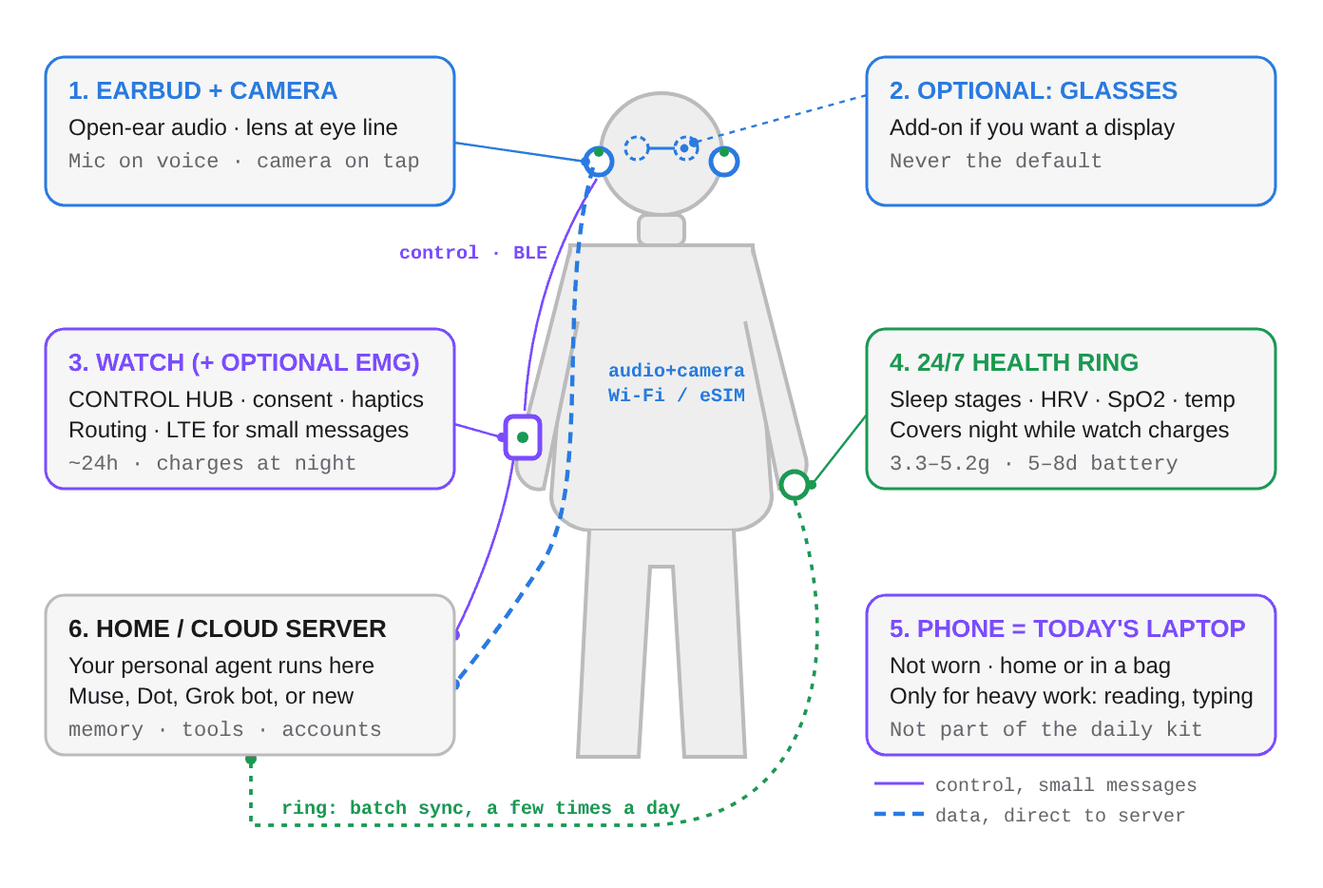
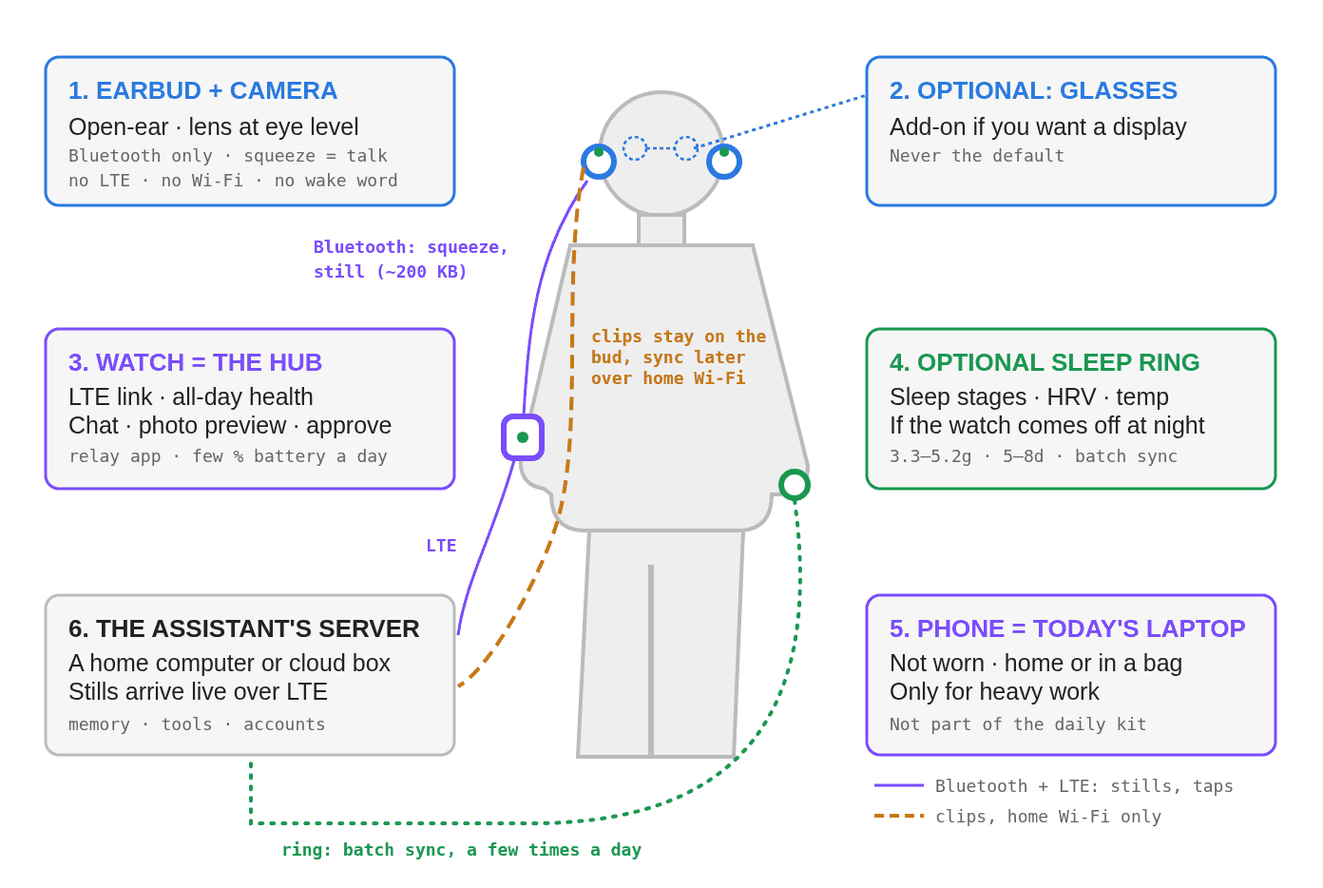
Wearable post: watch-as-hub design (bud Bluetooth only, stills live, clips local), privacy section, the watch is the new phone

diff --git a/_posts/2026-10-21-the-phone-goes-in-the-bag.md b/_posts/2026-10-21-the-phone-goes-in-the-bag.md
@@ -4,148 +4,152 @@ author: krishan
 layout: post
 categories: agents
 title: The phone goes in the bag. A realistic kit for a personal agent you wear.
-description: "An earbud with a small camera, a watch as the control hub, a ring, and an agent running on a server you own. The full design: device roles, links, tiers of compute, battery budget, privacy rules, a simulated day and an honest scorecard."
+description: "An earbud with a small camera, a watch as the hub with the LTE link, an optional ring, and an assistant on a server you own. The full design: device roles, links, tiers of compute, battery budget, privacy, a simulated day and an honest scorecard."
 ---
 
 Laptops did not disappear when phones arrived. They went into the bag, and they come out when there is real work to do: a long document, a spreadsheet, a lot of typing. I think the phone is heading the same way. Most of what we pull it out for is small: what's next, reply to this, log that, play something, how far did I run. A personal agent that can hear you, see what you see when you ask, and talk back in your ear can do most of those without a screen.
 
-This is not a "ten years from now" post. Everything below is built from parts that ship today or are one modest step away. The interesting part is what you have to give up to make it work on a real battery. Below is the whole design: who talks to whom, where the compute lives, the power budget, and what still does not work.
+This is a concept design, not a product, and not a "ten years from now" post. Everything below is built from parts that ship today or are one modest step away. The interesting part is what you have to give up to make it work on a real battery. Below is the whole design: who talks to whom, where the compute lives, the power budget, and what still does not work.
 
 ## The kit
 
 ![An open-ear earbud with a small camera at eye level](/assets/wearable-agent/earbud.jpg)
 
-**An open-ear earbud with a small camera.** This is the main sensor. The ear sits almost exactly at eye line, so a tiny camera there sees roughly what you see. It doesn't change how you look. You don't need a prescription, and it clips to the ear, or to glasses if you already wear them. Open-ear means you still hear the world. It handles voice in and voice out, plus a photo when you ask for one.
+Three devices, one job each.
 
-**Glasses are optional.** Camera glasses work well, but they change your face, and people who need prescription lenses have to customise them. So they are an add-on for people who want a display, not the default.
+**The buds: private voice and an eye-level camera.** An open-ear earbud with a small camera. The ear sits almost exactly at eye line, so a tiny camera there sees roughly what you see, without changing how you look. It has a mic, a speaker and **Bluetooth only**: no LTE, no Wi-Fi, and no always-listening wake word on the ear. A squeeze or tap is the talk/capture button, and it hands the moment to the watch. Open-ear means you still hear the world.
 
-**A watch as the control hub.** Tap to say yes, feel a haptic nudge, glance at one line of text, pay. It has LTE, so it works without the phone nearby.
+**The watch: the hub.** It carries the LTE link to the assistant, the screen (chat, a photo preview, approval taps, notifications) and all-day health tracking. It needs no hardware change. It is just a relay app, costing a few percent of battery a day.
 
-**A ring for health.** Sleep, heart rate and temperature, synced in batches a few times a day. It also covers the night while the watch charges.
+**The ring: optional.** Only worth wearing for more comfortable or more accurate sleep tracking if you take the watch off at night.
 
-**An EMG wristband, optional,** for silent finger gestures instead of voice in a quiet room.
+Also optional: **glasses** for people who want a display (they change your face, so never the default) and an **EMG wristband** for silent finger gestures in a quiet room.
 
-**An agent server you own.** The thinking happens on a home machine or cloud server running your personal agent, the way people already run things like Muse, Dot or a Grok bot, or something new. It holds your memory, tools and accounts. The things you wear are its eyes, ears and hands.
+**An assistant on a server you own.** The thinking happens on a home machine or cloud server running your personal agent, the way people already run things like Muse, Dot or a Grok bot, or something new. It holds your memory, tools and accounts. What you wear is its eyes, ears and hands.
 
 The phone is not part of the daily kit. It stays in a bag, like a laptop, for jobs that need a screen or keyboard.
+
+**The honest trade-off:** the bud is slightly bigger than a plain earbud. The camera, the flash for clips and a larger cell all have to fit.
 
 ![Present with people, agent in the background](/assets/wearable-agent/woman.jpg)
 
 ## The body-area network
 
-![Body silhouette with the wearable constellation: earbud with camera, optional glasses, watch, ring, phone in a bag and an agent server. Thin lines are control, dashed lines are data going straight to the server.](/assets/wearable-agent/body-network.png)
+![Body silhouette with the wearable constellation: earbud with camera, optional glasses, watch hub, optional sleep ring, phone in a bag and the assistant's server. Solid lines are Bluetooth and LTE, the orange dashed line is clips syncing over home Wi-Fi later.](/assets/wearable-agent/body-network.png)
 
-*Figure 1. Thin lines are control and small messages. The dashed blue line is heavy data: the earbud's audio and camera go straight to the server, not through the watch. The ring batch-syncs on its own.*
+*Figure 1. The bud talks Bluetooth to the watch and nothing else. The watch carries the LTE link. Short clips never travel: they sit on the bud's flash and sync to a home computer over home Wi-Fi later.*
 
 Each device has a narrow role and its own kind of link:
 
 | Device | Role | Link | What it sends |
 |---|---|---|---|
-| Earbud + camera | Default sensor, voice in/out | BLE to watch (control); Wi-Fi or eSIM to server (data) | Audio when you speak, a clip after a consent tap |
-| Watch | Control hub: consent, haptics, routing, payments | BLE to earbud; LTE to server | Small messages, never media |
-| Ring | 24/7 health, covers the night | Batch sync | Sleep, heart, temperature summaries |
+| Earbud + camera | Voice in/out, eye-level camera | Bluetooth to the watch only | A squeeze event, audio when you talk, one ~200 KB still per capture |
+| Earbud flash | Stores short clips (10–30 s) | Home Wi-Fi, later, to a home computer | Clips, only when home. Never over LTE |
+| Watch | Hub: LTE, chat, preview, approvals, health | Bluetooth to bud; LTE to the assistant | Small messages and stills |
+| Ring (optional) | Sleep tracking if the watch is off | Batch sync | Sleep, heart, temperature summaries |
 | Optional glasses, EMG band | A display; silent gestures | Local link to watch | Text; pinch events |
-| Agent server | Memory, tools, accounts, long jobs | Wi-Fi and LTE in, sanitized request out | Replies, reminders |
+| The assistant | Memory, tools, accounts, long jobs | LTE in, sanitized request out | Replies, reminders |
 | Phone | Heavy work | Its own | Nothing, unless taken out |
 
-The control/data split is the core of the design. Control messages are tiny and need low latency: "the user said yes", "the camera is allowed for 15 seconds". Data is big and bursty: audio while you talk, a frame when you ask. Pushing both through one device is what makes single-gadget designs overheat or die by lunch.
+The split is the core of the design: **live things are tiny, big things wait.** A squeeze event and a single sharp frame are small enough to relay over Bluetooth and LTE in a second or two. A clip is big, so it stays where it was recorded.
 
 ## Three tiers of compute
 
 Put each job where it is cheapest in milliwatts and latency.
 
-![Three tiers: body sensors, the watch as control plane, and an agent server with an allowlisted frontier model](/assets/wearable-agent/tiers-data-flow.png)
+![Three tiers: body sensors, the watch as hub, and the assistant with an allowlisted frontier model, plus a home computer that stores clips](/assets/wearable-agent/tiers-data-flow.png)
 
-*Figure 2. Raw audio and camera go earbud to server over Wi-Fi or eSIM, never through the watch.*
+*Figure 2. Stills go bud, watch, assistant over Bluetooth plus LTE. Clips go bud to a home computer over home Wi-Fi, later.*
 
-**Tier 1, on the body.** The earbud, ring and extras capture raw sound, light and pulse. The only thinking they do is tiny: a wake word and voice activity detection on the earbud, so the radio and camera stay off until you speak or tap.
+**Tier 1, on the body.** The bud captures sound and light, and does nothing clever: no wake word, no vision. It waits for your squeeze, so its radio and camera are idle the rest of the day.
 
-**Tier 2, the wrist.** The watch decides what is allowed: consent tap, haptics, routing, short messages. It does not carry media.
+**Tier 2, the wrist.** The watch relays the still, shows you a preview, takes your approval taps, blurs bystander faces before anything leaves it, and tracks your health all day.
 
-**Tier 3, your server.** The personal agent runs on a home or cloud machine you own. It takes the heavy streams directly, strips faces from any frame before a frontier model could see it, and runs the long jobs: code, research, memory, tool calls. Health data and private turns stop here. Only an allowlisted, sanitized request goes on to a frontier model, and only for hard reasoning.
+**Tier 3, your server.** The assistant runs on a home or cloud machine you own: code, research, memory, tool calls. Health data and private turns stop here. Only an allowlisted, sanitized request goes on to a frontier model, and only for hard reasoning.
 
-Net effect: **raw streams go earbud to server, never through the watch**, and **anything private is answered at the server you own**.
+## Why the buds don't stream
 
-## Why the watch can't carry everything
+The obvious design puts a cellular radio in everything and streams video. That falls apart on battery, size and privacy. So the design is deliberately narrow:
 
-The obvious design routes every sensor through the watch, since it has the cellular radio. That falls apart on battery. A typical smartwatch battery holds about 1–2 Wh, and an LTE radio sending continuously uses a few hundred milliwatts. Stream audio and video through it and the watch is dead by lunch, and warm on your wrist. So the design splits the job:
+- **The bud has no LTE and no Wi-Fi.** Bluetooth only, which is cheap and tiny. In practice you get about 1–2 Mbps, which is plenty for a 200 KB still (one to two seconds) and nowhere near enough for video.
+- **The watch is the relay, not the bulk pipe.** It already has an LTE radio. Passing a few stills and chat messages a day costs a few percent of its battery.
+- **Clips are stored, not streamed.** 10–30 seconds record to the bud's own flash, with a recording light showing, and sync over home Wi-Fi to a home computer later.
+- **Live video streaming is deliberately not supported.** Bluetooth bandwidth, battery and privacy all say no.
 
-- **The watch is the control plane, not the data plane.** Small messages only.
-- **Heavy sensors talk to the server directly,** over Wi-Fi or their own eSIM, or in short relayed bursts. The watch never holds the video.
-- **Capture is event-driven.** The earbud wakes when you speak; the camera takes a frame or short clip when you tap yes, not all day.
-- **The ring batch-syncs.** Health data is never urgent enough to keep a radio awake.
-
-Do this and each radio is idle most of the day, which is the only way a ring, earbuds and a watch each last a full day on batteries their size.
+Do this and each radio is idle most of the day, which is the only way a bud, a watch and a ring each last a full day on batteries their size.
 
 ![A run with no phone: pace in your ear](/assets/wearable-agent/s1-run.jpg)
 
 ## Power budget and the charging handoff
 
-Wearable setups die when you face four charging cables every night. The fix is to stagger battery life and hand the night over between wrist and finger.
+Wearable setups die when you face four charging cables every night. The fix is to stagger battery life and keep the radios idle.
 
 | Device | What the public specs say |
 |---|---|
-| Watch with LTE | Roughly a day: Apple Watch Series 10 LTE is rated about 18 hours, Pixel Watch 3 LTE about 24 to 36. Charges nightly. |
-| Ring | 5 to 8 days (Oura Ring 4), 3.3 to 5.2 g. Samsung's Galaxy Ring quotes 6 to 8. |
-| Open-ear earbud | Shokz OpenFit 2: about 9.4 g per bud, up to 11 hours, 48 with the case. A camera costs extra, so expect a daily case top-up. |
+| Watch with LTE | Roughly a day: Apple Watch Series 10 LTE is rated about 18 hours, Pixel Watch 3 LTE about 24 to 36. Charges nightly. The relay adds a few percent. |
+| Ring (optional) | 5 to 8 days (Oura Ring 4), 3.3 to 5.2 g. Samsung's Galaxy Ring quotes 6 to 8. |
+| Open-ear earbud | Shokz OpenFit 2: about 9.4 g per bud, up to 11 hours, 48 with the case. A camera, flash and bigger cell cost extra size and runtime, so expect a daily case top-up. |
 | Camera glasses (optional) | Ray-Ban Meta Gen 2: up to 8 hours typical, 48 with the case. |
 
 ![A 24-hour charging and wear schedule across the devices](/assets/wearable-agent/charging-handoff.png)
 
-*Figure 3. Watch on the pad overnight, ring on the finger, earbud in its case for a short midday top-up.*
+*Figure 3. Watch on the pad overnight, earbud in its case for a short midday top-up. The ring is optional and only owns the night if the watch is off.*
 
 The handoff:
 
-- **Bedtime.** The watch goes on a pad and the earbuds in their case. The ring stays on and owns the night: sleep stages, heart rate variability, temperature.
-- **Morning.** The ring has already synced its night to the server. One line on the watch face: how you slept, your first calendar item.
-- **Midday.** A 20-minute case top-up carries the earbud through the evening.
-- **Weekly.** The ring needs about 20 minutes on its charger.
+- **Bedtime.** The watch goes on a pad and the buds in their case. If you use the ring, it stays on and owns the night: sleep stages, heart rate variability, temperature.
+- **Morning.** One line on the watch face: how you slept, your first calendar item.
+- **Midday.** A 20-minute case top-up carries the bud through the evening.
+- **Weekly.** The ring, if you have one, needs about 20 minutes on its charger.
 
 Battery energy density improves by single-digit percent a year, so the plan is duty cycling and low-power radios, not a miracle cell. Nothing above needs one.
 
 ## What the hardware looks like
 
-![Five hardware mocks: an open-ear earbud with a forward camera, a watch consent screen, an optional EMG band, a smart ring and the phone in a bag](/assets/wearable-agent/hardware-mocks.png)
+![Five hardware mocks: an open-ear earbud with a forward camera, a watch hub showing a photo preview and approval, an optional EMG band, an optional sleep ring and the phone in a bag](/assets/wearable-agent/hardware-mocks.png)
 
-*Figure 4. The five physical surfaces, with screens stripped to ambient status and one-tap approvals.*
+*Figure 4. The five physical surfaces. The bud is the only new hardware; the watch just runs a relay app.*
 
-**A. Earbud with a forward camera.** An open-ear bud at the temple with a small lens on its front end. A status LED is lit whenever the camera is live. The mic wakes on voice, the camera only on a watch tap, and the ear stays open.
+**A. Earbud with a forward camera.** An open-ear bud at the temple with a small lens on its front end, a mic, a speaker, a squeeze or tap sensor and flash for clips. A recording light is lit whenever it captures. It is slightly bigger than a plain earbud, and that is the cost of the design.
 
-**B. The watch consent gate,** the most important screen in the system. It says what wants to record ("camera and mic"), for how long ("15 second earbud clip"), and offers one button, "tap to allow". The watch pulses so you feel the camera is live. With the gate on the watch, the camera cannot turn on from the cloud.
+**B. The watch hub.** The same watch you may already own, with a relay app. When you squeeze, it shows the photo preview and, if the assistant wants to act on it ("Log lunch?"), one button to approve.
 
-**C. An optional EMG band.** Sensors inside the wrist read a thumb and index pinch; a thin strip shows the time and whether a recording is live. Useful for silent input in a meeting, but still slow today, so optional.
+**C. An optional EMG band.** Sensors inside the wrist read a thumb and index pinch. Useful for silent input in a meeting, but still slow today, so optional.
 
-**D. The ring.** No screen: optical sensors for pulse and blood oxygen, a temperature sensor, a titanium shell. Its job is to keep score quietly.
+**D. The ring (optional).** No screen: optical sensors for pulse and blood oxygen, a temperature sensor, a titanium shell. Its job is to keep score at night if the watch is off.
 
 **E. The phone, in the bag,** with a hardware kill switch for its radios. It comes out for reading, typing and video.
 
 ![Lunch: the agent logs a meal after one deliberate tap on the watch](/assets/wearable-agent/s3-meal.jpg)
 
-## Privacy rules
+## Privacy
 
 A camera at eye level near other people is the hard part of this design, so the rules are explicit and mechanical.
 
-1. **Explicit capture consent.** The camera records only after a deliberate tap on the watch. While it is live, the watch pulses and the earbud's outer LED is lit, so people around you can see it. The mic wakes on voice activity only.
-2. **Coarse location only.** The agent knows "home", "gym", "office" or "park", not a continuous GPS trail.
-3. **Context-gated output.** Voice is public. When the agent can tell other people are around (it hears voices, or sees nearby devices), sensitive things like money, health or personal alerts wait until you're alone, or show up as a few words on the watch face.
+- **Whisper mic.** An in-ear bone-conduction sensor picks up jaw vibration, so you can whisper in public and it barely hears bystanders.
+- **Camera on a squeeze only.** A visible recording light shows while it captures. There is no always-on vision and no wake word.
+- **Faces blurred on the watch.** Bystander faces are blurred before a photo leaves it.
+- **Stills are single-use.** One is sent for one answer, then deleted.
+- **Clips stay local.** They live on the bud and a home computer, never the cloud.
+- **Hard off.** A physical camera switch and a mic mute gesture.
 
-Two more fall out of the architecture. **Faces are stripped on your server before any frame reaches a frontier model**, and **raw video and audio stay on your own server by default**. A compromised cloud agent holding first-person video would be a surveillance nightmare. Some places (locker rooms, schools, clinics) will rightly ban wearable cameras outright; the design has to respect that.
+Some places (locker rooms, schools, clinics) will rightly ban wearable cameras outright; the design has to respect that.
 
 ## A simulated day
 
 A Tuesday for a runner and parent who works in software, and what stands in for the phone.
 
-- **06:30, wake.** The watch comes off the pad. The ring synced the night to the server while you slept. One line on the watch: how you slept, the first meeting, the school run. *Replaces:* the alarm and the morning check.
-- **06:45, run.** The watch shows pace and buzzes at turns; open-ear buds whisper directions and play a cached audio book. At some point you say: "note: check the latency regression after standup." *Replaces:* the GPS app, music player and voice memo app.
-- **07:45, school drop-off.** Your kid does something great. You tap the watch once (allow a 15 second clip), the LED lights, and the clip goes over home Wi-Fi to the family folder on your server. *Replaces:* the camera.
-- **08:45, commute.** The agent reads a 90 second briefing in your ear: two pull requests merged, one waiting on a decision. You answer quietly: "approve the first, hold the second for my laptop."
-- **10:30, meeting.** A colleague quotes an old latency number. You double-pinch (optional EMG band) and the agent whispers the current figure, or puts it on the watch. Nobody sees a phone under the table.
-- **12:30, lunch.** You look at the bowl and tap the consent button. The earbud takes one frame; your server crops the plate, strips faces and logs a rough calorie estimate. One tap, one frame, no talking at a crowded table.
-- **15:15, a private message.** A bank alert and a clinic message arrive while you chat in the kitchen. The earbud hears voices nearby and holds the spoken output; the watch shows only "2 private items held". Alone in the stairwell five minutes later, you hear them.
+- **06:30, wake.** The watch comes off the pad. One line on it: how you slept, the first meeting, the school run. *Replaces:* the alarm and the morning check.
+- **06:45, run.** The watch shows pace and buzzes at turns; open-ear buds whisper directions and play a cached audio book. You squeeze and say: "note: check the latency regression after standup." *Replaces:* the GPS app, music player and voice memo app.
+- **07:45, school drop-off.** Your kid does something great. A longer squeeze starts a 20-second clip, the light comes on, and it stays on the bud until you're home and it syncs over Wi-Fi to the family folder. *Replaces:* the camera.
+- **08:45, commute.** The assistant reads a 90 second briefing in your ear: two pull requests merged, one waiting on a decision. You answer in a whisper: "approve the first, hold the second for my laptop."
+- **10:30, meeting.** A colleague quotes an old latency number. You double-pinch (optional EMG band) and the assistant whispers the current figure, or puts it on the watch. Nobody sees a phone under the table.
+- **12:30, lunch.** You look at the bowl and squeeze. The bud sends one frame to the watch, which blurs faces and passes it on; the assistant logs a rough calorie estimate after one "Log lunch?" tap. One squeeze, one frame, no talking at a crowded table.
+- **15:15, a private message.** A bank alert and a clinic message arrive while you chat in the kitchen. Your rule is no sensitive items out loud with people around, so the watch shows only "2 private items held". Alone in the stairwell five minutes later, you hear them.
 - **17:30, errands.** The shopping list lives on the watch; a double-click pays by NFC.
 - **18:30, evening.** The phone stays in the bag. Only an allowlist of urgent people can break through; the rest is batched for morning.
-- **20:30, deep work.** The kids are in bed, and you open the laptop for 90 minutes. The agent staged the branches and summarised the logs during the day, so the time is pure thinking.
-- **22:30, bed.** The watch goes on the pad, the earbuds in their case, the ring stays on. "Wake me at 6:30."
+- **20:30, deep work.** The kids are in bed, and you open the laptop for 90 minutes. The assistant staged the branches and summarised the logs during the day, so the time is pure thinking.
+- **22:30, bed.** The watch goes on the pad, the buds in their case. "Wake me at 6:30."
 
 ![The phone stays in the bag, like a laptop](/assets/wearable-agent/s4-night.jpg)
 
@@ -160,18 +164,18 @@ I scored 20 ordinary daily phone jobs honestly: 11 replaced, 6 partly, 3 not yet
 | 3 | Walking and running directions | Replaced | Voice cues + wrist buzz | The car dashboard still owns driving |
 | 4 | Contactless payments, transit | Replaced | Watch NFC | Solved |
 | 5 | Music and audiobooks | Replaced | Watch storage + buds | A button skips tracks |
-| 6 | Podcasts, spoken briefings | Replaced | Agent summary + buds | Follow-ups by voice |
-| 7 | Health, sleep, workouts | Replaced | Ring + watch | Better than a phone |
+| 6 | Podcasts, spoken briefings | Replaced | Assistant summary + buds | Follow-ups by voice |
+| 7 | Health, sleep, workouts | Replaced | Watch, optional ring | Better than a phone |
 | 8 | Calendar, reminders, timers | Replaced | Voice + watch glance | No calendar grid needed |
 | 9 | Smart home controls | Replaced | Voice + room presence | Via a local home hub |
-| 10 | Quick facts, translation | Replaced | Voice or camera, answer in ear | Faster than unlocking |
-| 11 | Food logging, receipts | Replaced | Watch tap + earbud camera | Beats typing |
-| 12 | Everyday photos and clips | Partly | Earbud camera | Great for candids; loses on zoom, low light |
+| 10 | Quick facts, translation | Replaced | Voice or a still, answer in ear | Faster than unlocking |
+| 11 | Food logging, receipts | Replaced | Squeeze + watch approval | Beats typing |
+| 12 | Everyday photos and clips | Partly | Bud camera: stills live, clips stored | Great for candids; loses on zoom, low light, and no live video |
 | 13 | Email triage | Partly | Audio or watch digest | Long replies wait |
 | 14 | News and feeds | Partly | Morning audio, headlines | Deep reads go to the laptop |
-| 15 | Rideshare | Partly | Agent books, watch shows plate | Pin drops want a map |
+| 15 | Rideshare | Partly | Assistant books, watch shows plate | Pin drops want a map |
 | 16 | Shopping, reorders | Partly | Voice reorder, watch list | Browsing needs a screen |
-| 17 | Social media | Partly | Agent drafts, you approve on a laptop | Kills infinite scroll |
+| 17 | Social media | Partly | Assistant drafts, you approve on a laptop | Kills infinite scroll |
 | 18 | Long docs, PDFs, code diffs | Not yet | Keep the laptop | No 400-line review on a watch |
 | 19 | Video and movies | Not yet | TV or laptop | Not for cinema |
 | 20 | Silent long typing | Not yet | Keep a keyboard | The phone's last job: whisper and EMG can't beat thumbs |
@@ -180,26 +184,27 @@ You can't achieve everything. Whisper and gesture input need to improve a lot be
 
 ## What it does to a life, good and bad
 
-**Upsides:** less reaching for a glowing rectangle when an agent triages notifications first; hands and eyes stay with the people in front of you, and capturing a moment is a one-second wrist tap; a continuous health loop without manual entry; heads-up voice cues for runners and cyclists. For people with low vision or limited hand use, a forward camera plus a conversational agent could matter a lot.
+**Upsides:** less reaching for a glowing rectangle when an assistant triages notifications first; hands and eyes stay with the people in front of you, and capturing a moment is a one-second squeeze; a continuous health loop without manual entry; heads-up voice cues for runners and cyclists. For people with low vision or limited hand use, a forward camera plus a conversational assistant could matter a lot.
 
 **Downsides:**
 
-- **Bystander privacy.** A camera at the temple still makes people uneasy. The LED and the watch tap are non-negotiable, and some venues will ban it.
-- **Dependence.** When an agent remembers every name and turn, your own recall can dull, much as GPS weakened map reading.
-- **Data liability.** First-person audio and video is high-stakes data, which is why it lands on a server you own.
-- **Cost and friction.** Several wearables plus a server add up.
+- **A bigger bud.** The camera, flash and larger cell make it chunkier than a plain earbud.
+- **Bystander privacy.** A camera at the temple still makes people uneasy. The recording light and the squeeze are non-negotiable, and some venues will ban it.
+- **Dependence.** When an assistant remembers every name and turn, your own recall can dull, much as GPS weakened map reading.
+- **No live video.** By design. If you want to stream what you see, this isn't it.
+- **Cost and friction.** A bud, a watch plan and a server add up.
 
 ## What ships today and what is next
 
-- **Today.** The audio, watch, ring and home-server loop is buildable now: an LTE watch, open-ear buds, a health ring and a server give you hands-free voice, health tracking, NFC payments and an agent that runs errands.
-- **Next, the missing seam.** The earbud with a camera. The camera parts are small enough; the missing piece is a product with an open interface. A realistic first test is a watch tap that sends one frame straight to your server, tried on a meal or a whiteboard.
+- **Today.** The audio, watch and home-server loop is buildable now: an LTE watch, open-ear buds and a server give you hands-free voice, health tracking, NFC payments and an assistant that runs errands.
+- **Next, the missing seam.** The earbud with a camera. The camera parts are small enough; the missing piece is a product with an open interface. A realistic first test is a squeeze that sends one still, bud to watch to server, tried on a meal or a whiteboard.
 - **Later.** I would plan around parts you can buy now, not dates.
 
 Four things must improve for this to go mainstream:
 
 1. **Silent input** (EMG and whisper) that beats a thumb in a quiet room.
-2. **Glasses weight and battery,** for those who want a display. Camera glasses today are roughly 43 to 50 g for 4 to 8 hours; a display model is about 69 g.
-3. **Open hardware APIs.** Today a vendor can lock its camera and mic to its own assistant. A standard camera, audio and display profile any agent can use, like Bluetooth audio today, is what makes "an agent you own" possible.
+2. **Bud size and battery,** so a camera, flash and cell fit without bulk. Camera glasses today are roughly 43 to 50 g for 4 to 8 hours; a display model is about 69 g.
+3. **Open hardware APIs.** Today a vendor can lock its camera and mic to its own assistant. A standard camera, audio and display profile any agent can use, like Bluetooth audio today, is what makes "an assistant you own" possible.
 4. **On-body compute and radios** efficient enough that a watch can run a small model locally instead of throttling.
 
 ## Who could build it, and is there a business
@@ -219,9 +224,11 @@ Rings are the proven recurring model: Oura charges $5.99 a month or $69.99 a yea
 
 My read is that the room for a small team is the **software layer in the middle**: an agent runtime on the user's own server that bridges watches, open-ear audio, ring APIs and optional glasses. Home Assistant and Tailscale won by stitching together hardware they didn't make, and the pattern fits here. It needs no new hardware. That is a judgment, not a measurement.
 
-## The shift
+## The shift: the watch is the new phone
 
-The goal isn't to kill the phone. It's to stop reaching for it fifty times a day for things that take five seconds. An earbud that sees when you ask, a watch you tap to say yes, a ring that quietly keeps score, and an agent you own doing the work in the background. The phone goes in the bag, next to the laptop, and comes out when there's real work to do.
+The phone's real job was never the glass. It was two things: a network connection and a pile of apps. The assistant replaces the apps, and the watch carries the network. What is left on the phone is long reading, maps and typing, and that is laptop-shaped work, so it stays in the bag.
+
+The goal isn't to kill the phone. It's to stop reaching for it fifty times a day for things that take five seconds. A bud that sees when you squeeze, a watch that relays and asks you to approve, and an assistant you own doing the work in the background. The phone goes in the bag, next to the laptop, and comes out when there's real work to do.
 
 ## Sources and notes
 
